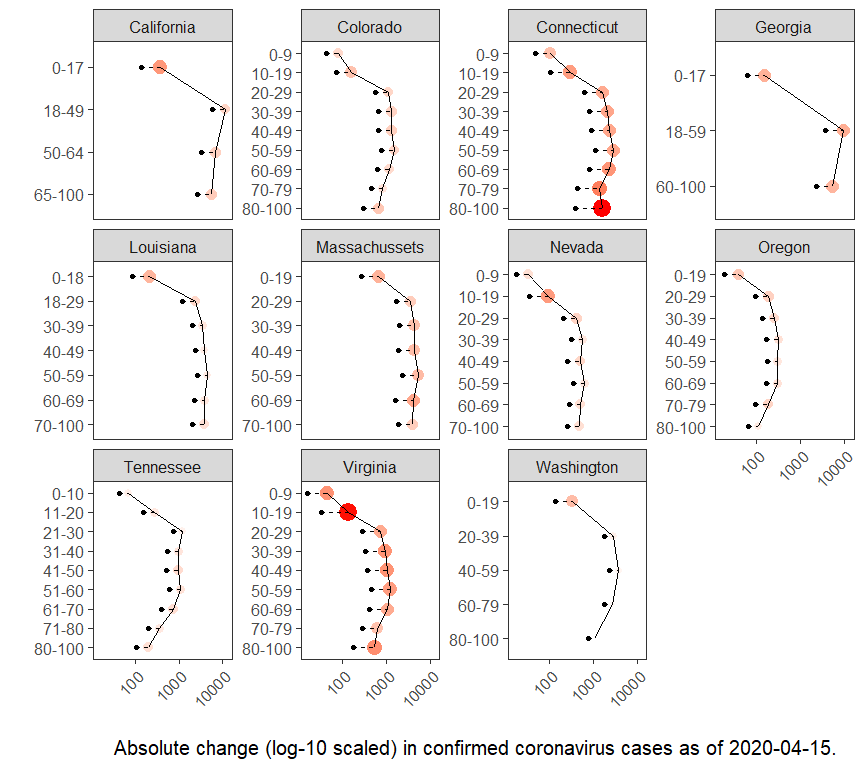
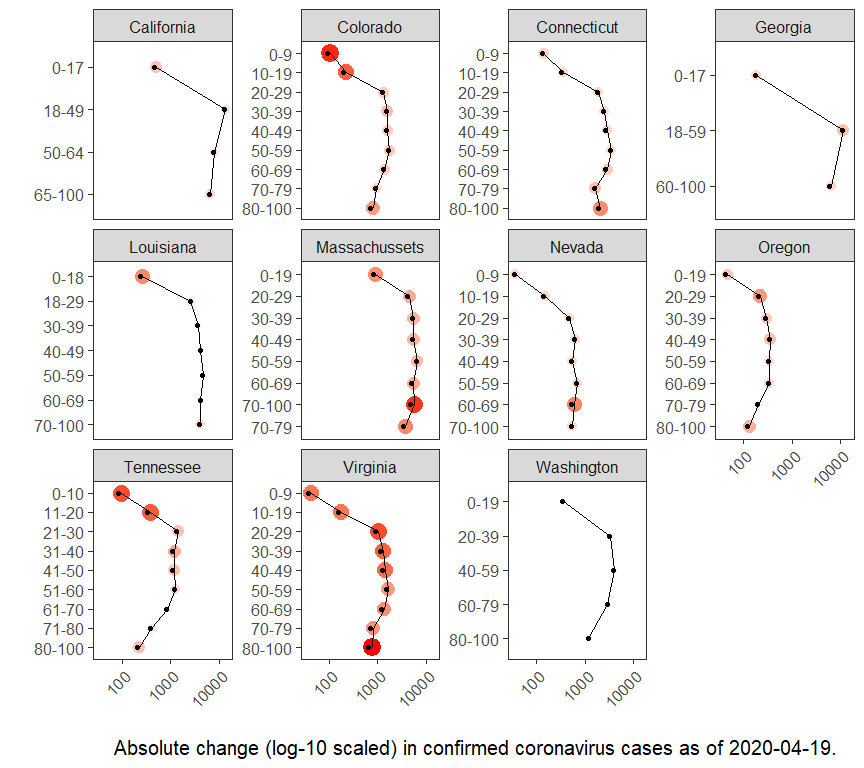
updated data

diff --git a/README.md b/README.md
@@ -36,10 +36,10 @@ states do not provide sufficient data to conduct these analyses. For
 comments, concerns, or access to higher resolution data, please contact
 me at <alanfarahani@gmail.com>.
 
-The assembled data extend from 2020-03-24 to 2020-04-15, and comprise 11
+The assembled data extend from 2020-03-24 to 2020-04-19, and comprise 11
 unique states (the states represented are California, Colorado,
 Connecticut, Georgia, Louisiana, Massachussets, Nevada, Oregon,
-Tennessee, Virginia, Washington) for a total of 142824 confirmed cases.
+Tennessee, Virginia, Washington) for a total of 170184 confirmed cases.
 
 # Methods and Materials
 
@@ -56,16 +56,27 @@ apart from the total number of confirmed cases are not provided.
 Nevertheless a graph is – therefore counts for each age range were
 estimated visually and the sum of these counts was made to match the
 published confirmed cases. Therefore it is possible there is some error
-(\~ +/-10) associated with the estimates for this state.
+(\~ +/-10) associated with the estimates for this
+state.
 
-![Representative example of data supplied by the state of Nevada
-regarding distribution of confirmed cases across age ranges. Accessed on
-26-03-2020.](covid19_demographics3_git_files/figure-gfm/Screenshot_2020-03-26%20Power%20BI%20Report.png)
+<div class="figure">
+
+<img src="./0326/Screenshot_2020-03-26 Power BI Report.png" alt="Representative example of data supplied by the state of Nevada regarding distribution of confirmed cases across age ranges.  Accessed on 26-03-2020." width="1676" />
+
+<p class="caption">
+
+Representative example of data supplied by the state of Nevada regarding
+distribution of confirmed cases across age ranges. Accessed on
+26-03-2020.
+
+</p>
+
+</div>
 
 # Major Trends
 
 Without transformation of the age-ranges, the percent of confirmed cases
-by ages as of 2020-04-15 can be seen in the figure below.
+by ages as of 2020-04-19 can be seen in the figure below.
 
 ![Percent of confirmed COVID-19 cases by age-range given by state
 authorities.](covid19_demographics3_git_files/figure-gfm/state-dist-1.png)
